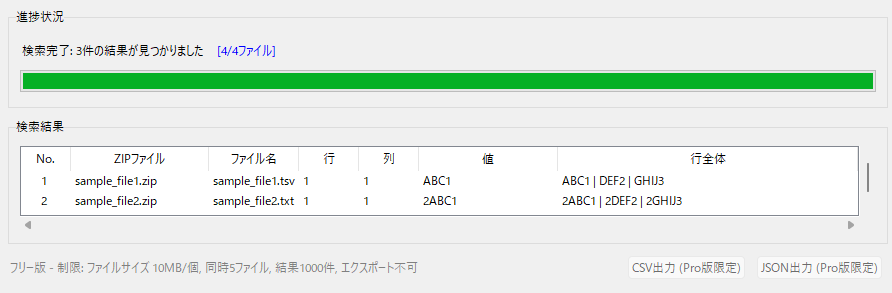
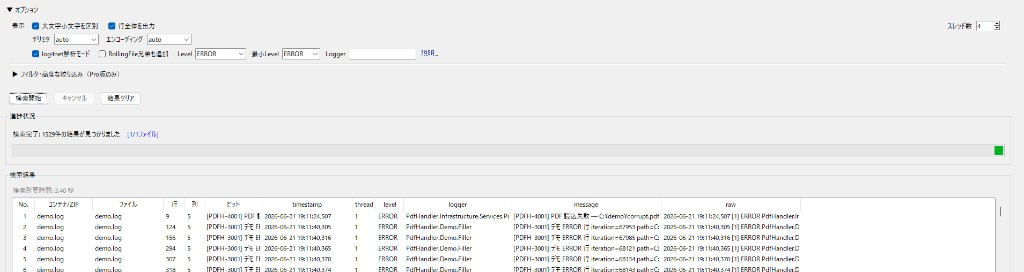
Update ZipSearch product page for v0.5.0 prerelease.
Refresh copy, Pro pricing, FAQ, and homepage card; add log4net and Rolling screenshots while keeping the legacy main-screen capture until formal release.

diff --git a/zipsearch.html b/zipsearch.html
@@ -7,7 +7,7 @@
   <link rel="apple-touch-icon" sizes="180x180" href="assets/logo/apple-touch-icon-large.png">
   <link rel="manifest" href="site.webmanifest">
   <meta name="theme-color" content="#ffffff">
-  <meta name="description" content="ZipSearch - ZIP/7z 内の CSV/TSV/TXT を展開せずに高速検索するツール">
+  <meta name="description" content="ZipSearch - log4net ログを ZIP のまま横断検索。ERROR と時刻で絞り込み、保守・障害調査に特化した Windows 向けツール">
   <title>ZipSearch | Office Go Plan</title>
   <link rel="preconnect" href="https://fonts.googleapis.com">
   <link rel="preconnect" href="https://fonts.gstatic.com" crossorigin>
@@ -32,69 +32,155 @@
   </header>
 
   <main>
-    <!-- 1. ヒーロー・キャッチ -->
+    <!-- 1. ヒーロー -->
     <section class="hero hero-product product-theme-zipsearch">
       <div class="container">
         <div class="hero-product-layout">
           <img src="assets/zipsearch/zipsearch_blue.png" alt="ZipSearch" class="product-logo">
           <div class="hero-product-text">
             <h1>ZipSearch</h1>
-            <p class="hero-subtitle">ZIP内を展開せずに検索</p>
+            <p class="hero-subtitle">log4net の過去ログを、ZIP のまま、複数ファイル横断で、ERROR と時刻で絞り込む。</p>
           </div>
         </div>
-        <p class="hero-desc">ZIP/7z 形式の圧縮ファイル内の CSV/TSV/TXT を、展開せずに高速検索できるツールです。</p>
+        <p class="hero-desc">ZIP・ローカル・HTTP(S) 上のログや CSV を、<strong>展開せずに横断検索</strong>できる Windows 向けツール。<strong>保守・障害調査・納品ログ確認</strong>に特化しています。</p>
       </div>
     </section>
 
-    <!-- 2. 機能・用途の紹介 -->
+    <!-- 2. ZipSearch が向いていること -->
     <section class="section features-section">
       <div class="container">
-        <h2>機能・特徴</h2>
+        <h2>ZipSearch が向いていること</h2>
         <ul class="feature-list">
-          <li><strong>3つのインターフェース</strong>: CLI / GUI / WebUI</li>
-          <li><strong>複数形式対応</strong>: ZIP, 7z, CSV, TSV, TXT</li>
-          <li><strong>HTTP/HTTPS 検索</strong>: イントラネットの ZIP ファイルも検索可能</li>
-          <li><strong>HTTP ブラウジング</strong>: フォルダ URL から ZIP 一覧を取得・選択（サブフォルダ対応）</li>
-          <li><strong>リアルタイム進捗表示</strong>: 検索の進捗をリアルタイムで表示</li>
+          <li>障害発生の前後を、<strong>ERROR / WARN と日時</strong>で素早く絞り込みたい</li>
+          <li>.NET アプリの <strong>log4net ログ</strong>を、Level / Logger ごとに構造化して探したい</li>
+          <li><strong>RollingFile</strong>（<code>app.log</code> + <code>app.log.1</code> 等）をまとめて追跡したい</li>
+          <li><strong>ZIP に封入されたログ</strong>を、解凍せずに検索したい</li>
+          <li><strong>HTTP(S) 上の ZIP ログ</strong>を、URL 指定で直接調べたい</li>
+          <li>調査結果を <strong>CSV / JSON で共有</strong>し、<strong>CLI で再現</strong>したい</li>
         </ul>
       </div>
     </section>
 
-    <!-- 3. UI キャプチャ -->
+    <!-- 3. 3 つの強み -->
+    <section class="section points-section">
+      <div class="container">
+        <h2>3 つの強み</h2>
+        <div class="points-grid">
+          <div class="point-content">
+            <h3 class="point-title">1. アーカイブ横断 — ZIP / HTTP を非展開で</h3>
+            <p class="point-desc">納品ログ・保管アーカイブ・社内共有フォルダ上の ZIP を、展開作業なしで横断検索。HTTP(S) URL からの ZIP 直接検索にも対応（イントラネット配布ログ向け）。</p>
+          </div>
+          <div class="point-content">
+            <h3 class="point-title">2. log4net 構造化 — Pro 版</h3>
+            <p class="point-desc">PatternLayout を <strong>日時・Level・Logger・メッセージ</strong>の列に分解。ERROR / WARN 絞り込み、スタックトレースを 1 件として検索、Logger ワイルドカードに対応。</p>
+          </div>
+          <div class="point-content">
+            <h3 class="point-title">3. 調査ワークフロー — GUI / CLI / Web</h3>
+            <p class="point-desc">GUI で日常調査、CLI でスクリプト化、Web で軽量ブラウズ。Rolling 兄弟の一括検索、エクスポート、お気に入りパス保存で <strong>再現可能な調査</strong>を支援。</p>
+          </div>
+        </div>
+      </div>
+    </section>
+
+    <!-- 4. どんな調査に向いているか -->
+    <section class="section comparison-section">
+      <div class="container">
+        <h2>どんな調査に向いているか</h2>
+        <div class="comparison-table-wrapper">
+          <table class="comparison-table">
+            <thead>
+              <tr>
+                <th>やりたいこと</th>
+                <th>ZipSearch</th>
+              </tr>
+            </thead>
+            <tbody>
+              <tr>
+                <td>過去ログを log4net の Level / Logger で絞る</td>
+                <td><strong>向いています</strong>（Pro）</td>
+              </tr>
+              <tr>
+                <td>ZIP ログを展開せず横断検索</td>
+                <td><strong>向いています</strong></td>
+              </tr>
+              <tr>
+                <td>社内 URL の ZIP ログを直接調べる</td>
+                <td><strong>向いています</strong></td>
+              </tr>
+              <tr>
+                <td>ローテーション済み .log を一括追跡</td>
+                <td><strong>向いています</strong>（Pro）</td>
+              </tr>
+              <tr>
+                <td>調査結果を CSV / JSON で共有・CLI 再現</td>
+                <td><strong>向いています</strong>（Pro）</td>
+              </tr>
+              <tr>
+                <td>稼働中アプリの常時リアルタイム監視</td>
+                <td>対象外（出力済みログの調査向け）</td>
+              </tr>
+              <tr>
+                <td>巨大 1 ファイルの精読・編集</td>
+                <td>対象外（横断・絞り込み調査向け）</td>
+              </tr>
+            </tbody>
+          </table>
+        </div>
+      </div>
+    </section>
+
+    <!-- 5. 機能一覧 -->
+    <section class="section features-section">
+      <div class="container">
+        <h2>機能一覧</h2>
+        <ul class="feature-list">
+          <li><strong>3 つの UI</strong>: GUI / CLI / Web</li>
+          <li><strong>対応形式</strong>: ZIP, 7z, CSV, TSV, TXT, <code>.log</code>, Excel（.xlsx / .xlsm・Pro）</li>
+          <li><strong>HTTP/HTTPS</strong>: ZIP の直接検索、フォルダ URL からの ZIP 一覧取得</li>
+          <li><strong>log4net 解析</strong>（Pro）: 列化、Level / Logger フィルタ、マルチライン例外</li>
+          <li><strong>Rolling 兄弟横断</strong>（Pro）: <code>app.log</code> と <code>.log.1</code> 等を一括</li>
+          <li><strong>エクスポート</strong>（Pro）: CSV / JSON</li>
+          <li><strong>並列検索</strong>（Pro）: マルチスレッド</li>
+        </ul>
+      </div>
+    </section>
+
+    <!-- 6. スクリーンショット -->
     <section class="section screenshots-section">
       <div class="container container-wide">
         <div class="screenshots-grid">
           <div class="screenshot-item">
             <div class="screenshot-caption">
               <h3 class="screenshot-title">メイン画面（GUI）</h3>
-              <p class="screenshot-desc">検索パス・キーワード・オプションを一画面で設定</p>
+              <p class="screenshot-desc">ZIP パス・HTTP URL・キーワード・オプションを一画面で設定。非展開横断検索の起点。</p>
             </div>
             <img src="assets/zipsearch/gui-main.png" alt="ZipSearch GUI メイン画面" width="800" height="500">
           </div>
           <div class="screenshot-item">
             <div class="screenshot-caption">
-              <h3 class="screenshot-title">検索結果</h3>
-              <p class="screenshot-desc">検索結果を一覧表示、該当行をすぐに確認</p>
+              <h3 class="screenshot-title">log4net 解析 + 検索結果</h3>
+              <p class="screenshot-desc">log4net 解析モード ON、Level を ERROR に絞り込み。timestamp / level / logger / message 列で構造化表示（Pro）。</p>
             </div>
-            <img src="assets/zipsearch/gui-results.png" alt="ZipSearch 検索結果一覧" width="800" height="500">
+            <img src="assets/zipsearch/gui-results.png" alt="ZipSearch log4net 解析の検索結果" width="800" height="500">
           </div>
           <div class="screenshot-item">
             <div class="screenshot-caption">
-              <h3 class="screenshot-title">Web 版</h3>
-              <p class="screenshot-desc">ブラウザからアクセス、どこからでも検索可能</p>
+              <h3 class="screenshot-title">Rolling 兄弟横断</h3>
+              <p class="screenshot-desc">RollingFile 兄弟通知 ON で <code>demo.log</code> と <code>demo.log.1</code> 等を一括検索。ローテーション済みログの追跡に（Pro）。</p>
             </div>
-            <img src="assets/zipsearch/web-main.png" alt="ZipSearch WebUI メイン画面" width="800" height="500">
+            <img src="assets/zipsearch/gui-rolling.png" alt="ZipSearch Rolling 兄弟横断の検索結果" width="800" height="500">
           </div>
         </div>
+        <p class="screenshot-note">※ 1 枚目（検索設定画面）は正式リリース時に ZIP / HTTP URL 設定のキャプチャへ差し替え予定です。</p>
       </div>
     </section>
 
-    <!-- 4. ダウンロード -->
+    <!-- 7. ダウンロード -->
     <section class="section download-section">
       <div class="container">
         <h2>ダウンロード</h2>
-        <p class="version-badge">v0.3.0</p>
-        <p class="download-intro">リリースページから Windows 版をダウンロードしてください。</p>
+        <p class="version-badge">v0.5.0（prerelease 先行評価版）</p>
+        <p class="download-intro">GitHub Releases から Windows 版をダウンロードしてください。v0.5.0 は正式リリース前の先行評価版です。機能・仕様は変更される場合があります。</p>
         <div class="download-buttons">
           <a href="https://github.com/6EFB0D/ZipSearch/releases" class="cta-button cta-button-primary">リリースページを開く</a>
         </div>
@@ -104,67 +190,100 @@
       </div>
     </section>
 
-    <!-- 5. フリー版 vs Pro版 -->
+    <!-- 8. フリー版 vs Pro 版 -->
     <section class="section comparison-section">
       <div class="container">
-        <h2>フリー版 vs Pro版</h2>
+        <h2>フリー版 vs Pro 版（v0.5.0）</h2>
         <div class="comparison-table-wrapper">
           <table class="comparison-table">
             <thead>
               <tr>
                 <th>項目</th>
                 <th>フリー版</th>
-                <th>Pro版（準備中）</th>
+                <th>Pro 版</th>
               </tr>
             </thead>
             <tbody>
               <tr>
                 <td>ファイルサイズ</td>
-                <td>100MB/ファイルまで</td>
+                <td><strong>10 MB</strong>/ファイルまで</td>
                 <td><strong>無制限</strong></td>
               </tr>
               <tr>
                 <td>同時検索</td>
-                <td>最大5ファイル</td>
+                <td>最大 5 ファイル</td>
                 <td><strong>無制限</strong></td>
               </tr>
               <tr>
                 <td>検索結果</td>
-                <td>最大100件</td>
+                <td>最大 10 件</td>
                 <td><strong>無制限</strong></td>
               </tr>
               <tr>
-                <td>エクスポート機能</td>
-                <td>❌ 使用不可</td>
+                <td>log4net ログ解析</td>
+                <td>❌（<code>.log</code> 行検索のみ）</td>
+                <td>✅ PatternLayout 列解析</td>
+              </tr>
+              <tr>
+                <td>ZIP / HTTP 横断</td>
+                <td>✅</td>
+                <td>✅</td>
+              </tr>
+              <tr>
+                <td>エクスポート</td>
+                <td>❌</td>
                 <td>✅ CSV/JSON</td>
               </tr>
               <tr>
-                <td>検索速度</td>
-                <td>シングルスレッド</td>
-                <td><strong>マルチスレッド</strong>（指定可能）</td>
+                <td>並列検索</td>
+                <td>1 スレッド</td>
+                <td>マルチスレッド</td>
               </tr>
               <tr>
-                <td>カラム指定検索</td>
-                <td>❌ 使用不可</td>
-                <td>✅ 列番号/列名で指定</td>
+                <td>端末数</td>
+                <td>—</td>
+                <td><strong>1 ライセンス 1 台</strong></td>
               </tr>
               <tr>
-                <td>範囲検索</td>
-                <td>❌ 使用不可</td>
-                <td>✅ 日付/数値の範囲指定</td>
+                <td>価格</td>
+                <td>無料</td>
+                <td><strong>9,980 円（税込・買い切り）</strong></td>
+              </tr>
+              <tr>
+                <td>購入方法</td>
+                <td>—</td>
+                <td>アプリ内購入またはライセンスキー入力</td>
               </tr>
             </tbody>
           </table>
         </div>
+        <p class="pro-note">Pro 版は <strong>9,980 円（税込・買い切り）</strong>。アプリ内購入またはライセンスキー入力でご利用いただけます。14 日間の Pro 評価版はサポート窓口経由で配布しています（v0.5.0 先行評価版）。</p>
+        <p class="pro-note">※当方は消費税法上の免税事業者のため、表示価格はお支払い総額（税込）であり、消費税を別途請求することはありません。法人向けの複数ライセンスは、サポート窓口へお問い合わせください。</p>
       </div>
     </section>
 
-    <!-- 6. お問い合わせ -->
+    <!-- 9. FAQ -->
+    <section class="section faq-section">
+      <div class="container">
+        <h2>FAQ</h2>
+        <dl class="faq-list">
+          <dt>Q. リアルタイムでログを受信・監視できますか？</dt>
+          <dd>A. できません。ZipSearch はファイル・ZIP・アーカイブ上に出力済みのログを検索するツールです。</dd>
+          <dt>Q. 単純な文字列検索だけなら足りますか？</dt>
+          <dd>A. 場合によっては他の方法でも足ります。log4net の列化、ZIP 内非展開、HTTP ZIP、Rolling 一括、エクスポートなど、構造化されたログ調査に向いています。</dd>
+          <dt>Q. 無料版で何が試せますか？</dt>
+          <dd>A. 10 MB までの ZIP / ログ横断検索（log4net 列解析は Pro）。お試し後、本格的な調査は Pro をご検討ください。</dd>
+        </dl>
+      </div>
+    </section>
+
+    <!-- 10. お問い合わせ -->
     <section class="section contact-section">
       <div class="container">
         <h2>お問い合わせ</h2>
         <p>ご質問やサポートのご要望は、以下のメールアドレスまでお気軽にご連絡ください。</p>
         <a href="mailto:support@office-goplan.com" class="email-link">support@office-goplan.com</a>
+        <p class="contact-extra">ご要望・不具合報告は <a href="https://forms.gle/HJBEr6NSBMb26eR27">Google フォーム</a> からもお送りいただけます。</p>
       </div>
     </section>
   </main>

diff --git a/index.html b/index.html
@@ -59,10 +59,10 @@
             <img src="assets/zipsearch/zipsearch_blue.png" alt="ZipSearch" class="product-card-logo">
             <div class="product-card-text">
               <h3>ZipSearch</h3>
-              <p class="product-card-tagline">ZIP内を展開せずに検索</p>
+              <p class="product-card-tagline">log4net ログを横断検索</p>
             </div>
           </a>
-          <p class="product-card-desc">ZIP/7z 内の CSV/TSV/TXT を展開せずに高速検索。CLI / GUI / WebUI の3つのインターフェースに対応。</p>
+          <p class="product-card-desc">出力済みログを ZIP のまま横断検索。ERROR・日時絞り込み、HTTP ZIP・Rolling 対応。GUI / CLI / Web。v0.5.0 先行評価版。</p>
           <a href="zipsearch.html" class="product-link">詳細を見る →</a>
         </div>
         <div class="product-card product-card-pictcomp">

diff --git a/styles.css b/styles.css
@@ -654,9 +654,34 @@ h2 {
 .pro-note {
   font-size: 0.9rem;
   color: var(--color-text-muted);
+  margin-top: 12px;
+}
+
+.pro-note:first-of-type {
+  margin-top: 20px;
+}
+
+.faq-list {
+  margin-top: 24px;
+}
+
+.faq-list dt {
+  font-weight: 600;
+  color: var(--color-text);
+  margin-bottom: 8px;
+}
+
+.faq-list dd {
+  color: var(--color-text-muted);
+  line-height: 1.7;
+  margin: 0 0 24px 0;
 }
 
 .contact-section p {
   color: var(--color-text-muted);
   margin-bottom: 16px;
+}
+
+.contact-section .contact-extra {
+  margin-top: 24px;
 }

diff --git a/assets/zipsearch/README.md b/assets/zipsearch/README.md
@@ -2,22 +2,26 @@
 
 このフォルダには ZipSearch の UI キャプチャを配置します。
 
-## 必要な画像
+## 現在配置中
 
-| ファイル名 | 説明 | 撮影手順 |
-|------------|------|----------|
-| `gui-main.png` | GUI メイン画面 | ZipSearch GUI を起動し、検索パス・キーワード・オプション・検索ボタンが見える状態で撮影 |
-| `gui-results.png` | 検索結果画面 | 検索実行後、結果一覧が表示されている状態で撮影 |
-| `web-main.png` | WebUI メイン画面 | Web 版を起動し、メイン画面で撮影（任意） |
+| ファイル名 | ページ上の位置 | 説明 |
+|------------|----------------|------|
+| `gui-main.png` | 1 枚目 | 検索設定画面（正式リリース時に ZIP / HTTP URL 版へ差し替え予定） |
+| `gui-results.png` | 2 枚目 | log4net 解析 ON + ERROR 絞り込み + 結果一覧（v0.5.0） |
+| `gui-rolling.png` | 3 枚目 | RollingFile 兄弟通知 ON + ローテーション横断（v0.5.0） |
+| `web-main.png` | （未使用） | 旧 Web 版キャプチャ。必要時に再利用 |
+| `zipsearch_blue.png` | ヒーロー | 製品ロゴ |
 
-## 撮影手順
+## 正式リリース時の差し替え（1 枚目）
 
-1. ZipSearch を起動（GUI 版）
-2. 検索パスにサンプル ZIP を追加
-3. 検索キーワードを入力した状態で **gui-main.png** を撮影
-4. 検索実行後、結果が表示された状態で **gui-results.png** を撮影
-5. （任意）Web 版を起動し、メイン画面で **web-main.png** を撮影
+検索設定画面で以下が見えるキャプチャに差し替え:
+
+- ローカル ZIP パス
+- HTTP(S) URL
+- 検索キーワード入力済み（検索前）
+
+差し替え後は `zipsearch.html` の 1 枚目キャプションと `screenshot-note` を更新してください。
 
 ## 画像の差し替え
 
-スクリーンショットを更新する場合は、上記の手順で撮影し、同名で上書き保存してください。
+スクリーンショットを更新する場合は、同名で上書き保存し、`zipsearch.html` のキャプションと合わせて確認してください。
